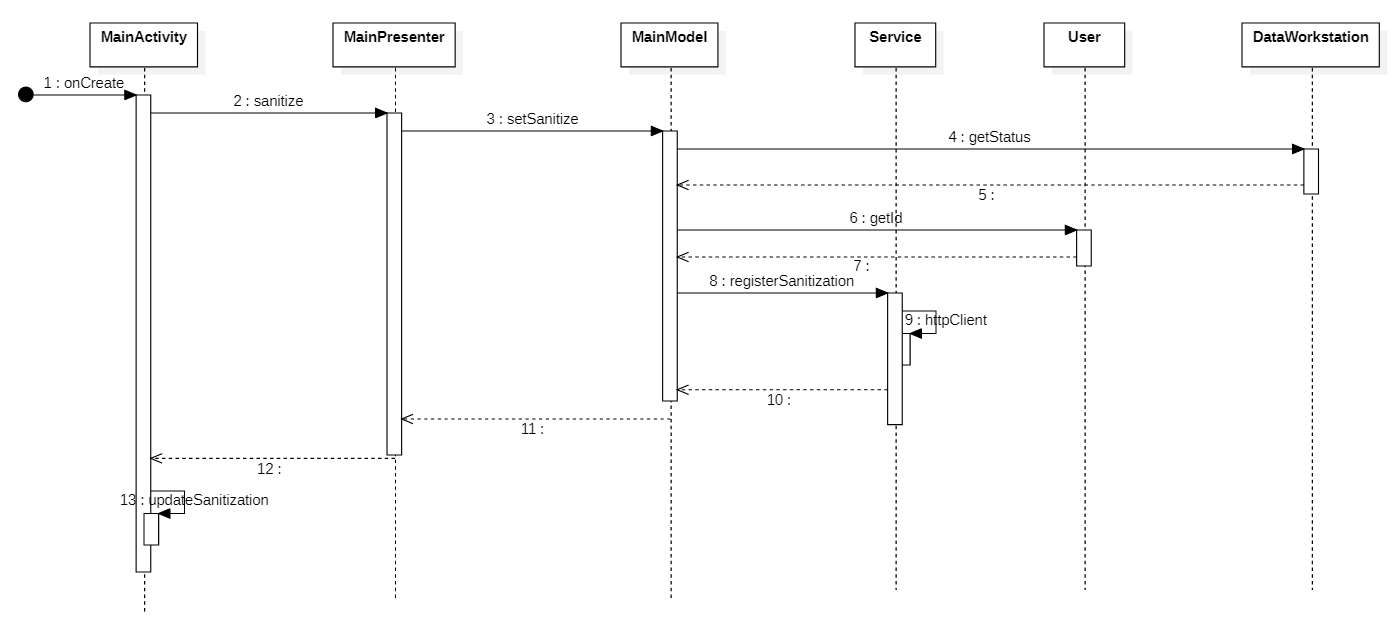
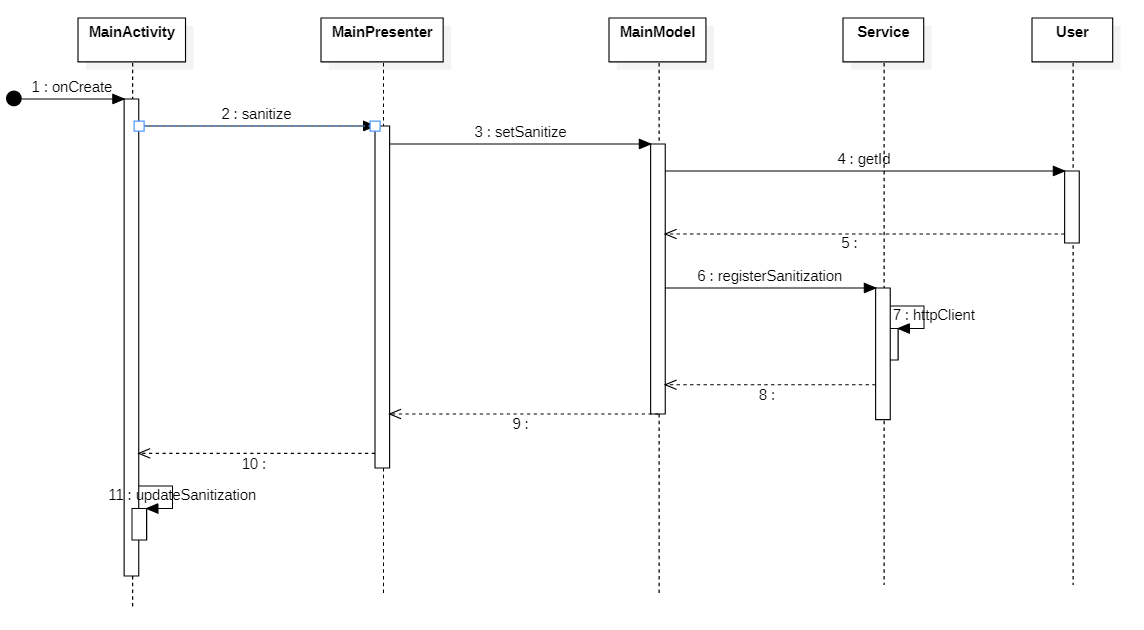
correzione diagramma seq

diff --git a/esterni/ManualeManutentore/res/sections/Apputenti.tex b/esterni/ManualeManutentore/res/sections/Apputenti.tex
@@ -467,6 +467,7 @@ In conclusione per visualizzare la lista delle prenotazioni la vista chiamerà i
 Questo diagramma di sequenza rappresenta la serie di azioni svolte dall'applicazione quando viene scansionato un tag NFC da un utente.
 La sequenza inizia con la creazione della vista tramite il metodo \textit{onCreate}.
 Successivamente viene richiesto al Presenter di visualizzare le caratteristiche delle postazioni in seguito alla scansione del tag NFC tramite il metodo \textit{scanTagNFC} che a sua volta le richiederà al Model attraverso il metodo \textit{getStatus}.
+Il Model, per ottenere le informazioni di una postazione, otterrà l'id della Workstation grazie al tag associato ad esso.
 Successivamente grazie al metodo \textit{getWorkstation}, che genera un json con l'id della postazione, andrà a richiedere al Service tutte le caratteristiche. Per ottenere queste informazioni il Service userà il metodo \textit{httpClient}.
 In seguito verranno fatte tutte le chiamate di ritorno, ovvero le caratteristiche della postazione verranno ritornate al Model che le ritornerà
 al Presenter che le ritornerà a sua volta alla vista.
@@ -497,7 +498,7 @@ In conclusione per visualizzare la guida la vista chiamerà il metodo \textit{up
 Questo diagramma di sequenza rappresenta la serie di azioni svolte dall'applicazione quando viene premuto da un utente il bottone per rendere una postazione igienizzata.
 La sequenza inizia con la creazione della vista tramite il metodo \textit{onCreate}.
 Successivamente viene richiesto al Presenter di registrare l'igienizzazione della postazione da parte di un utente tramite il metodo \textit{sanitize} che a sua volta lo richiederà al Model attraverso il metodo \textit{setSanitize}.
-Il Model, per igienizzare una postazione, farà prima una chiamata alla classe DataWorkstation con il metodo \textit{getStatus} per ottenere l'id della Workstation e poi alla classe User con il metodo \textit{getId} per ottenere l'id dello user.
+Il Model, per igienizzare una postazione, otterrà prima l'id della Workstation grazie al tag associato ad esso e poi l'id dello user dalla classe User con il metodo \textit{getId}.
 Successivamente grazie al metodo \textit{registerSanitization}, che genera un json con l'id della postazione e l'id dell'utente, andrà a richiedere al Service di registrarla. Per registrarla il Service userà il metodo \textit{httpClient}.
 In seguito verranno fatte tutte le chiamate di ritorno, ovvero il risultato dell’operazione verrà ritornato al Model che lo ritornerà al Presenter che lo ritornerà a sua volta alla vista.
 In conclusione per visualizzare le nuove informazioni sulla postazione la vista chiamerà il metodo \textit{updateSanitization}.
